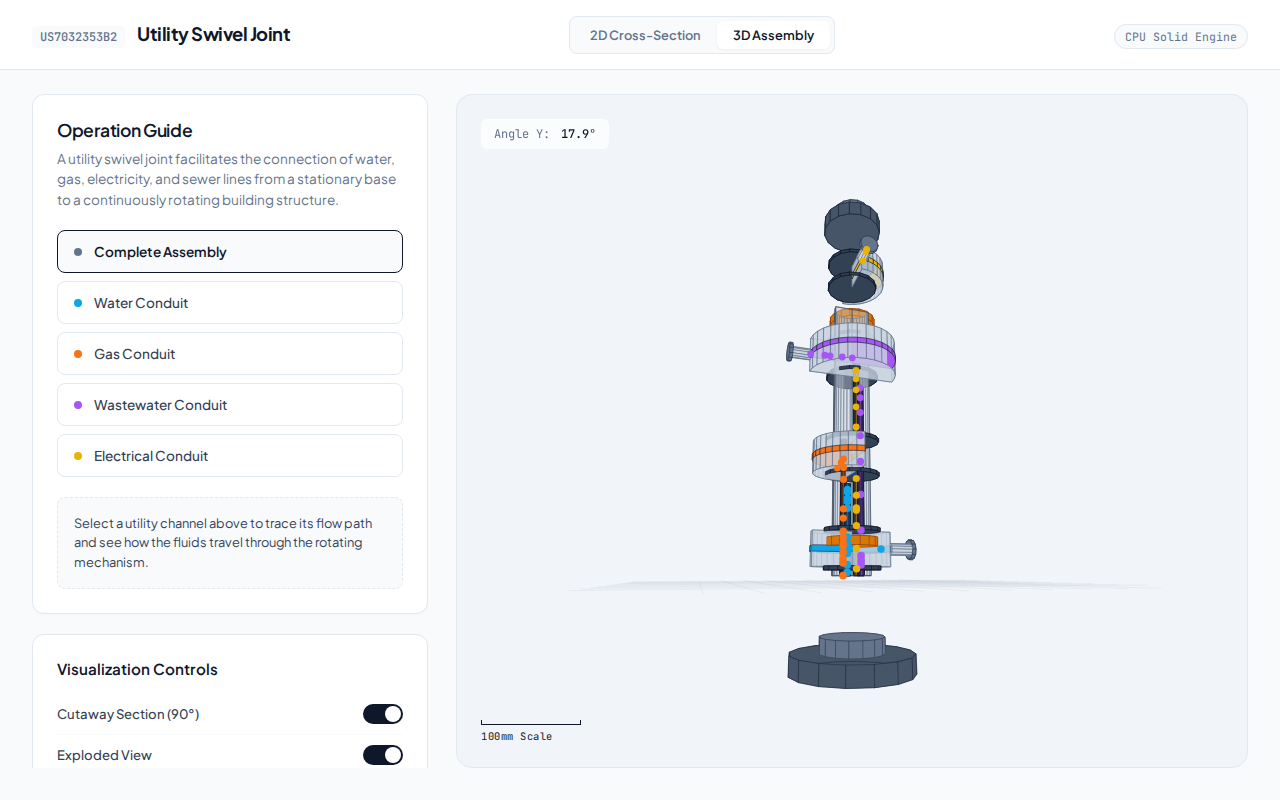
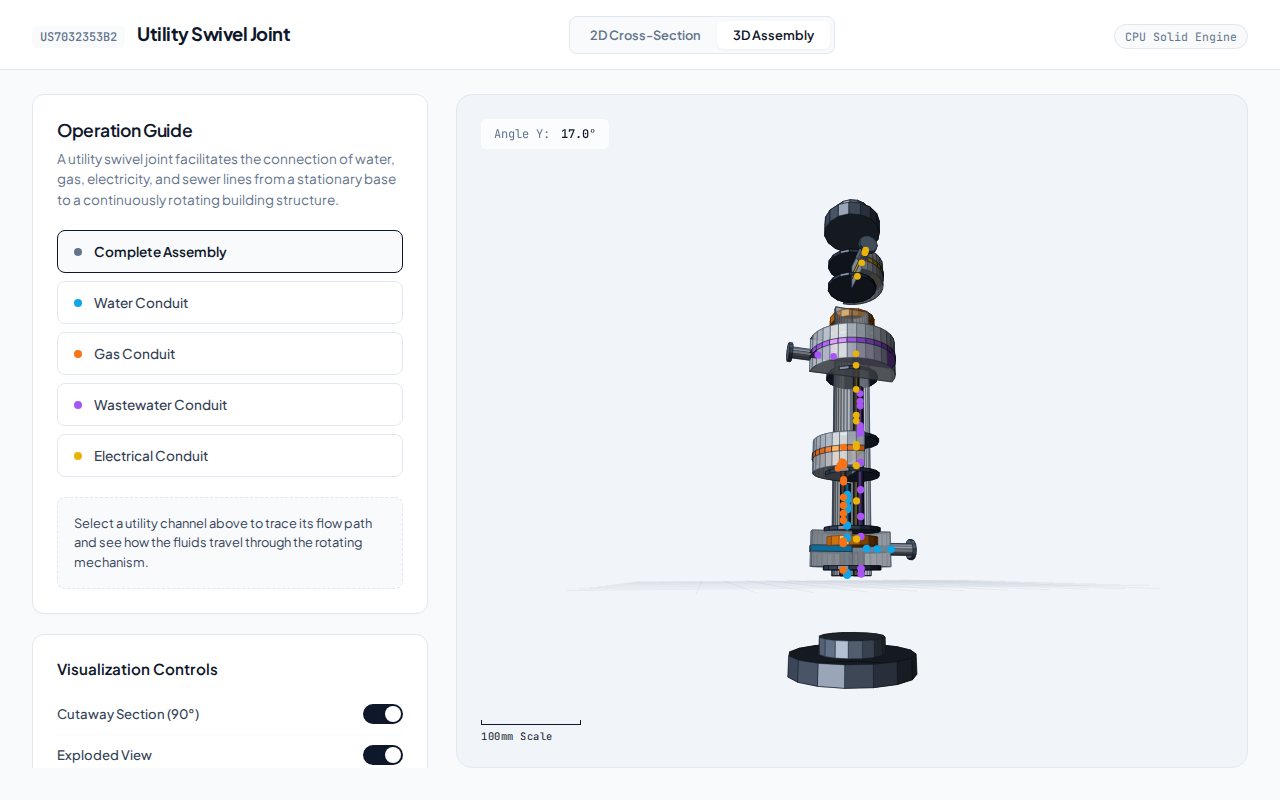
feat: implement CPU-based dynamic Blinn-Phong shading and normal vectors

Changed region(s): [[0.5938, 0.25, 0.7188, 0.7188], [0.5938, 0.7812, 0.7188, 0.875]]

diff --git a/src/index.html b/src/index.html
@@ -685,6 +685,32 @@
             drawCtx.fillText("STATIONARY SPINDLE CORE", cx - 70, cy - 155);
         }
 
+        // ─── CPU LIGHTING SHADER SYSTEM ───
+        function parseColor(cStr) {
+            if (cStr.startsWith('#')) {
+                const hex = cStr.substring(1);
+                return [
+                    parseInt(hex.substr(0, 2), 16) || 0,
+                    parseInt(hex.substr(2, 2), 16) || 0,
+                    parseInt(hex.substr(4, 2), 16) || 0,
+                    1.0
+                ];
+            }
+            if (cStr.startsWith('rgba(')) {
+                const parts = cStr.match(/[\d.]+/g);
+                return [parseFloat(parts[0]), parseFloat(parts[1]), parseFloat(parts[2]), parseFloat(parts[3])];
+            }
+            return [255, 255, 255, 1.0];
+        }
+
+        function applyLighting(cStr, diffuse, specular) {
+            const [r, g, b, a] = parseColor(cStr);
+            const rL = Math.min(255, r * diffuse + specular);
+            const gL = Math.min(255, g * diffuse + specular);
+            const bL = Math.min(255, b * diffuse + specular);
+            return `rgba(${Math.round(rL)}, ${Math.round(gL)}, ${Math.round(bL)}, ${a})`;
+        }
+
         // Helper functions to generate 3D faces list
         function addCylinderFaces(faces, cx, cy, cz, r, h, color, strokeColor, angleLimit = Math.PI*2, rotOffset = 0) {
             const steps = 16;
@@ -921,14 +947,70 @@
             // Sort faces back-to-front (Painter's Algorithm)
             faces.sort((a, b) => b.depth - a.depth);
             
-            // Render faces with depth fading (Recommandation B)
+            // Light setup (Camera relative)
+            // L points towards the light source, so light comes from top-left-front
+            let Lx = -0.5, Ly = 0.7, Lz = -0.5;
+            const lenL = Math.sqrt(Lx*Lx + Ly*Ly + Lz*Lz);
+            Lx /= lenL; Ly /= lenL; Lz /= lenL;
+            
+            // View vector is directly into the screen (0, 0, -1) in camera space
+            const Vx = 0, Vy = 0, Vz = -1;
+            
+            // Half vector for Blinn-Phong
+            let Hx = Lx + Vx, Hy = Ly + Vy, Hz = Lz + Vz;
+            const lenH = Math.sqrt(Hx*Hx + Hy*Hy + Hz*Hz);
+            Hx /= lenH; Hy /= lenH; Hz /= lenH;
+            
+            // Render faces with depth fading and dynamic shading
             const cameraDist = 35;
             
             faces.forEach(face => {
                 const depthNorm = Math.max(0, Math.min(1, (face.depth + 15) / 30));
                 
-                drawCtx.fillStyle = face.color;
-                drawCtx.strokeStyle = face.strokeColor;
+                let diffuse = 1.0;
+                let specular = 0.0;
+
+                // Calculate face normal using cross product of first two edges
+                if (face.rotatedVertices.length >= 3) {
+                    const v0 = face.rotatedVertices[0];
+                    const v1 = face.rotatedVertices[1];
+                    const v2 = face.rotatedVertices[2];
+                    
+                    const ux = v1[0] - v0[0];
+                    const uy = v1[1] - v0[1];
+                    const uz = v1[2] - v0[2];
+                    
+                    const wx = v2[0] - v1[0];
+                    const wy = v2[1] - v1[1];
+                    const wz = v2[2] - v1[2];
+                    
+                    let nx = uy * wz - uz * wy;
+                    let ny = uz * wx - ux * wz;
+                    let nz = ux * wy - uy * wx;
+                    
+                    const lenN = Math.sqrt(nx*nx + ny*ny + nz*nz);
+                    if (lenN > 0) {
+                        // Reverse normal if it's pointing away from camera (0, 0, -1)
+                        if (nz > 0) {
+                            nx = -nx; ny = -ny; nz = -nz;
+                        }
+                        
+                        nx /= lenN; ny /= lenN; nz /= lenN;
+                        
+                        // Diffuse Term (ambient + dot(N,L))
+                        const dotNL = nx * Lx + ny * Ly + nz * Lz;
+                        diffuse = 0.3 + 0.7 * Math.max(0, dotNL);
+                        
+                        // Specular Term (pow(dot(N,H), shininess))
+                        const dotNH = nx * Hx + ny * Hy + nz * Hz;
+                        if (dotNL > 0 && dotNH > 0) {
+                            specular = Math.pow(dotNH, 30) * 120; // shininess = 30, intensity = 120
+                        }
+                    }
+                }
+                
+                drawCtx.fillStyle = applyLighting(face.color, diffuse, specular);
+                drawCtx.strokeStyle = applyLighting(face.strokeColor, diffuse, 0); // No specular on strokes
                 drawCtx.lineWidth = face.lineWidth * (0.5 + depthNorm * 0.8);
                 
                 drawCtx.beginPath();